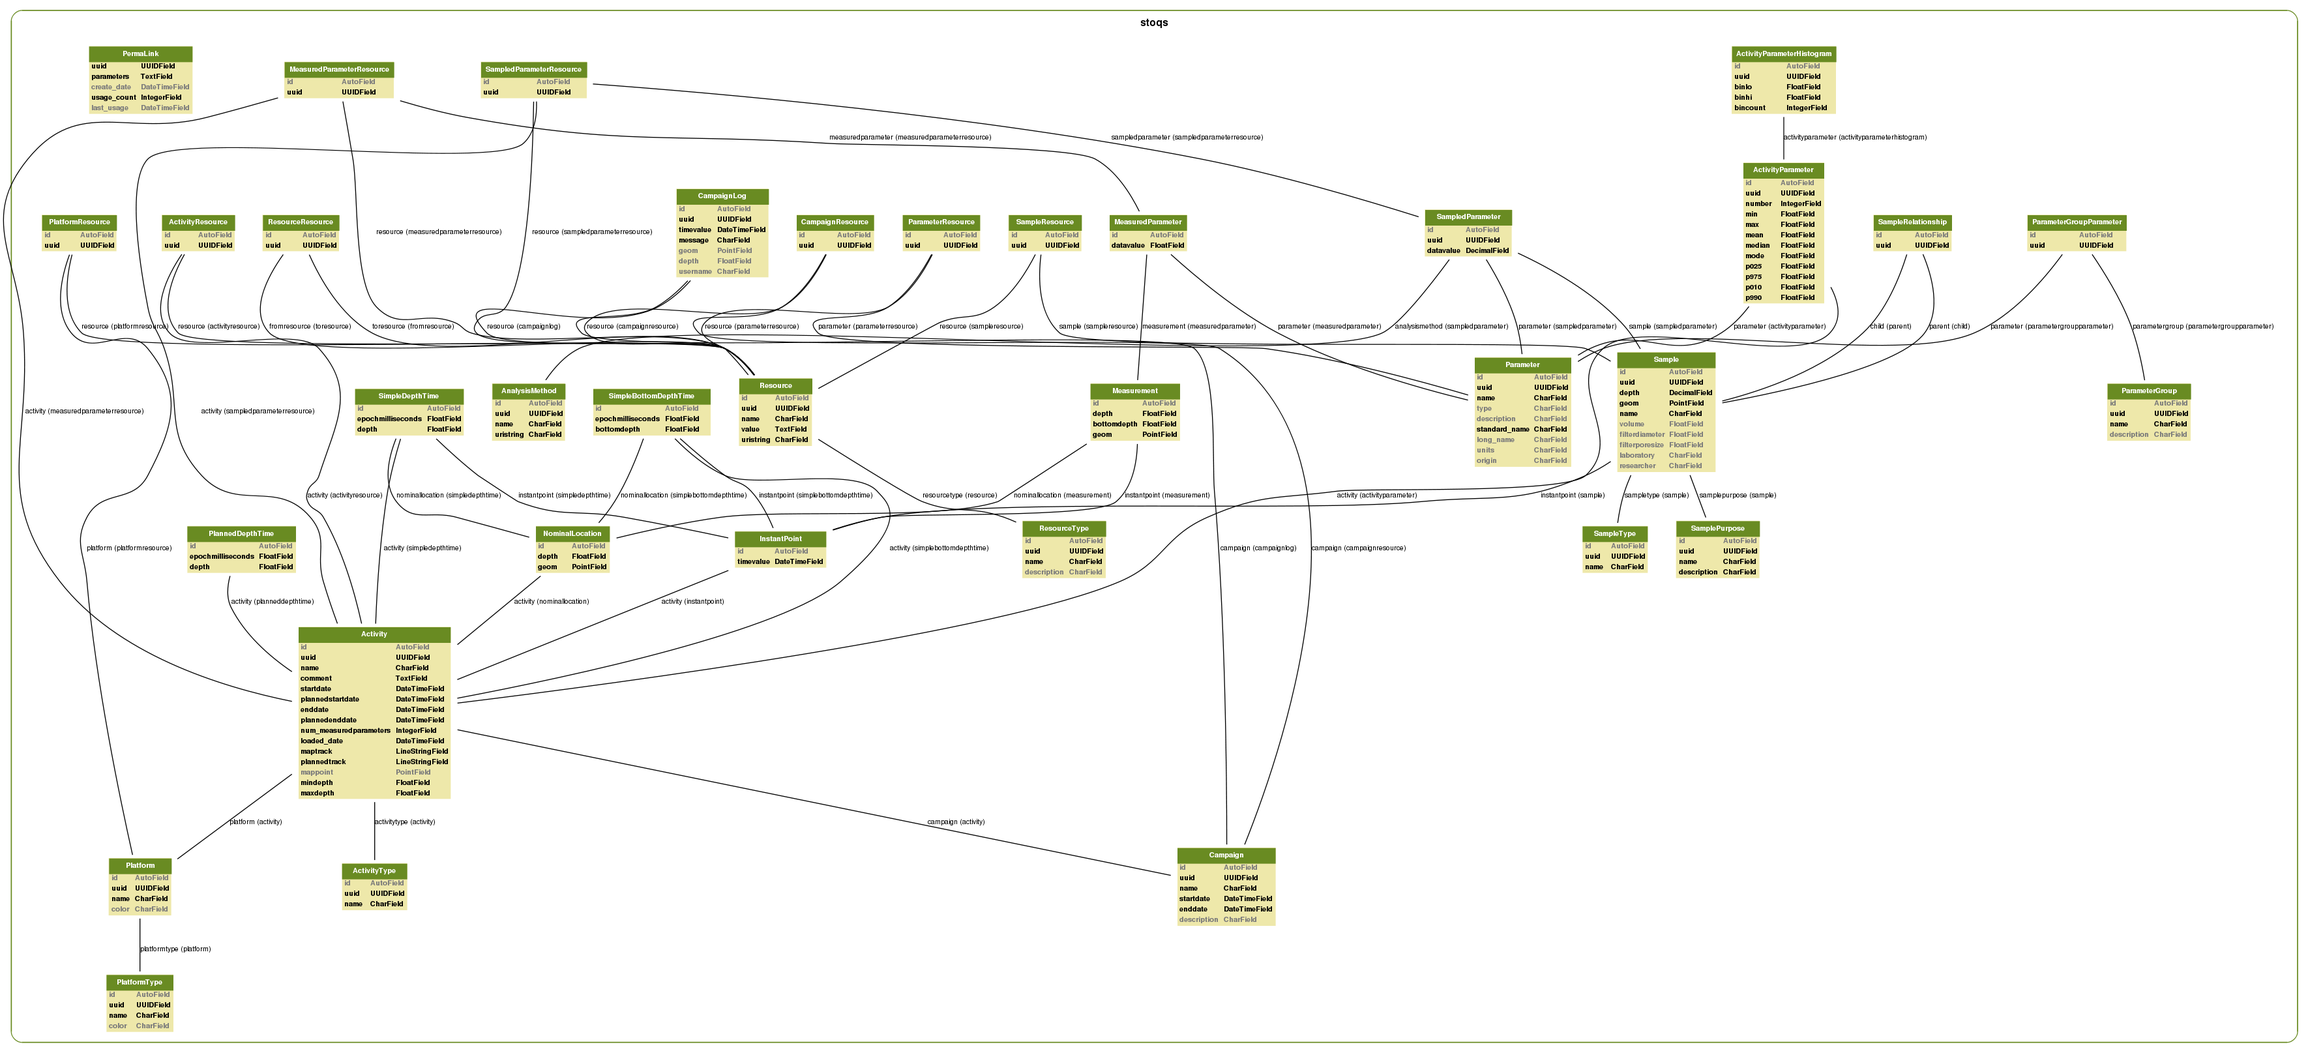
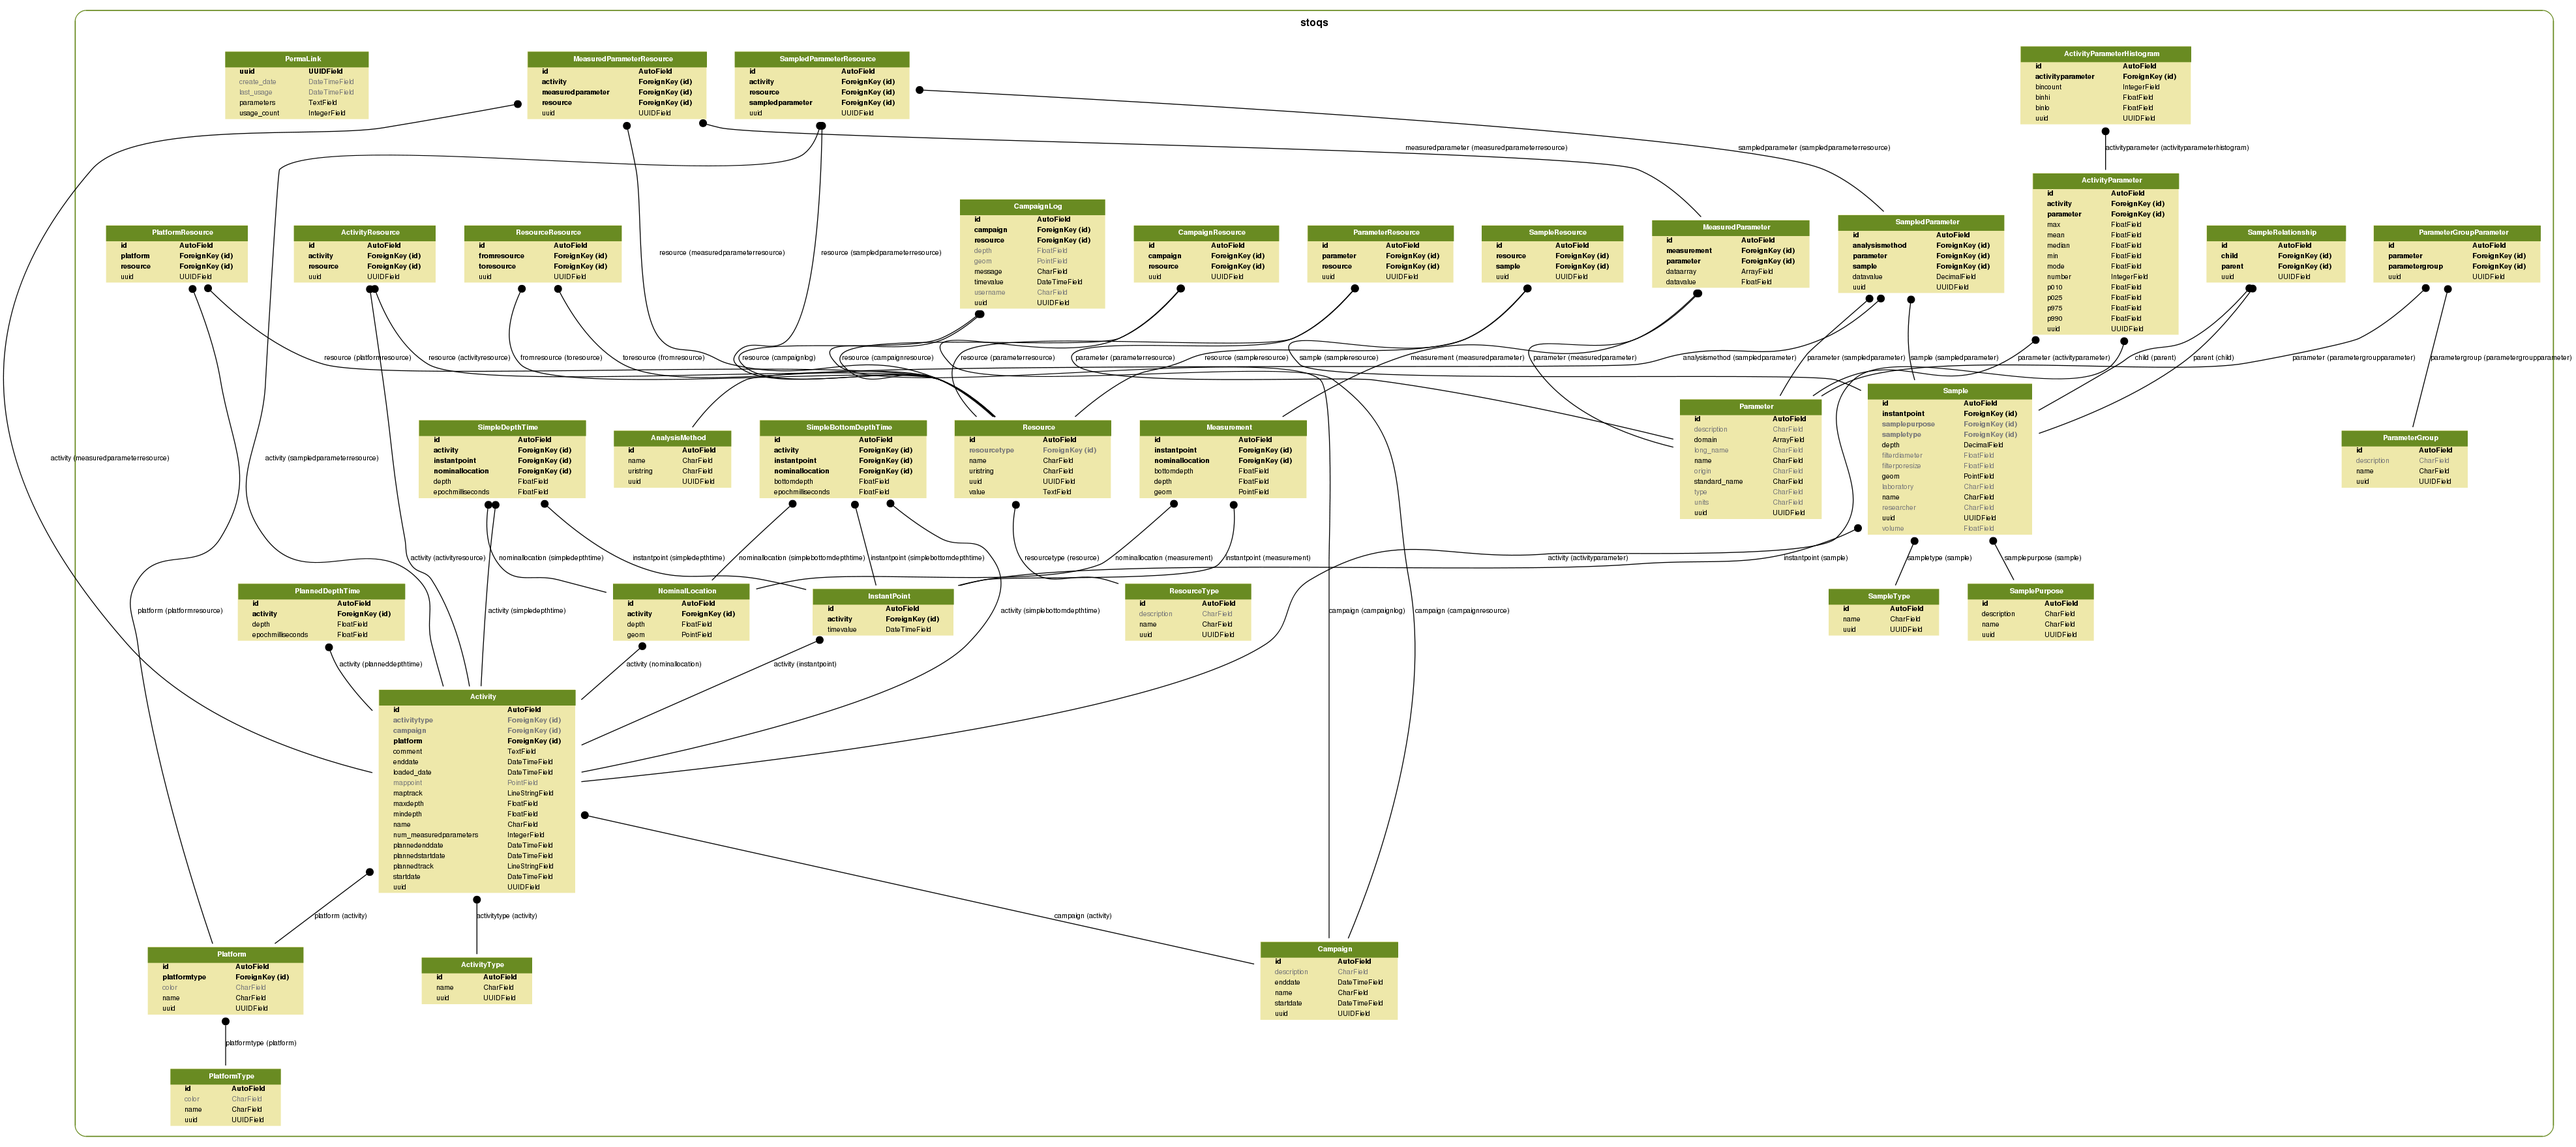
Updated model with new MeasuredParameter dataarray field

diff --git a/doc/README.md b/doc/README.md
@@ -1,7 +1,4 @@
-This doc/ directory contains files that provide information about the STOQS project.
-Initially, it contains diagrams an .pdf files of presentations made at scientific 
-meetings.
+See the instructions directory for help on getting a STOQS server up and running.
 
---
-Mike McCann
-19 July 2012
+See the papers, posters, and presentations folders for more information about STOQS.
+
